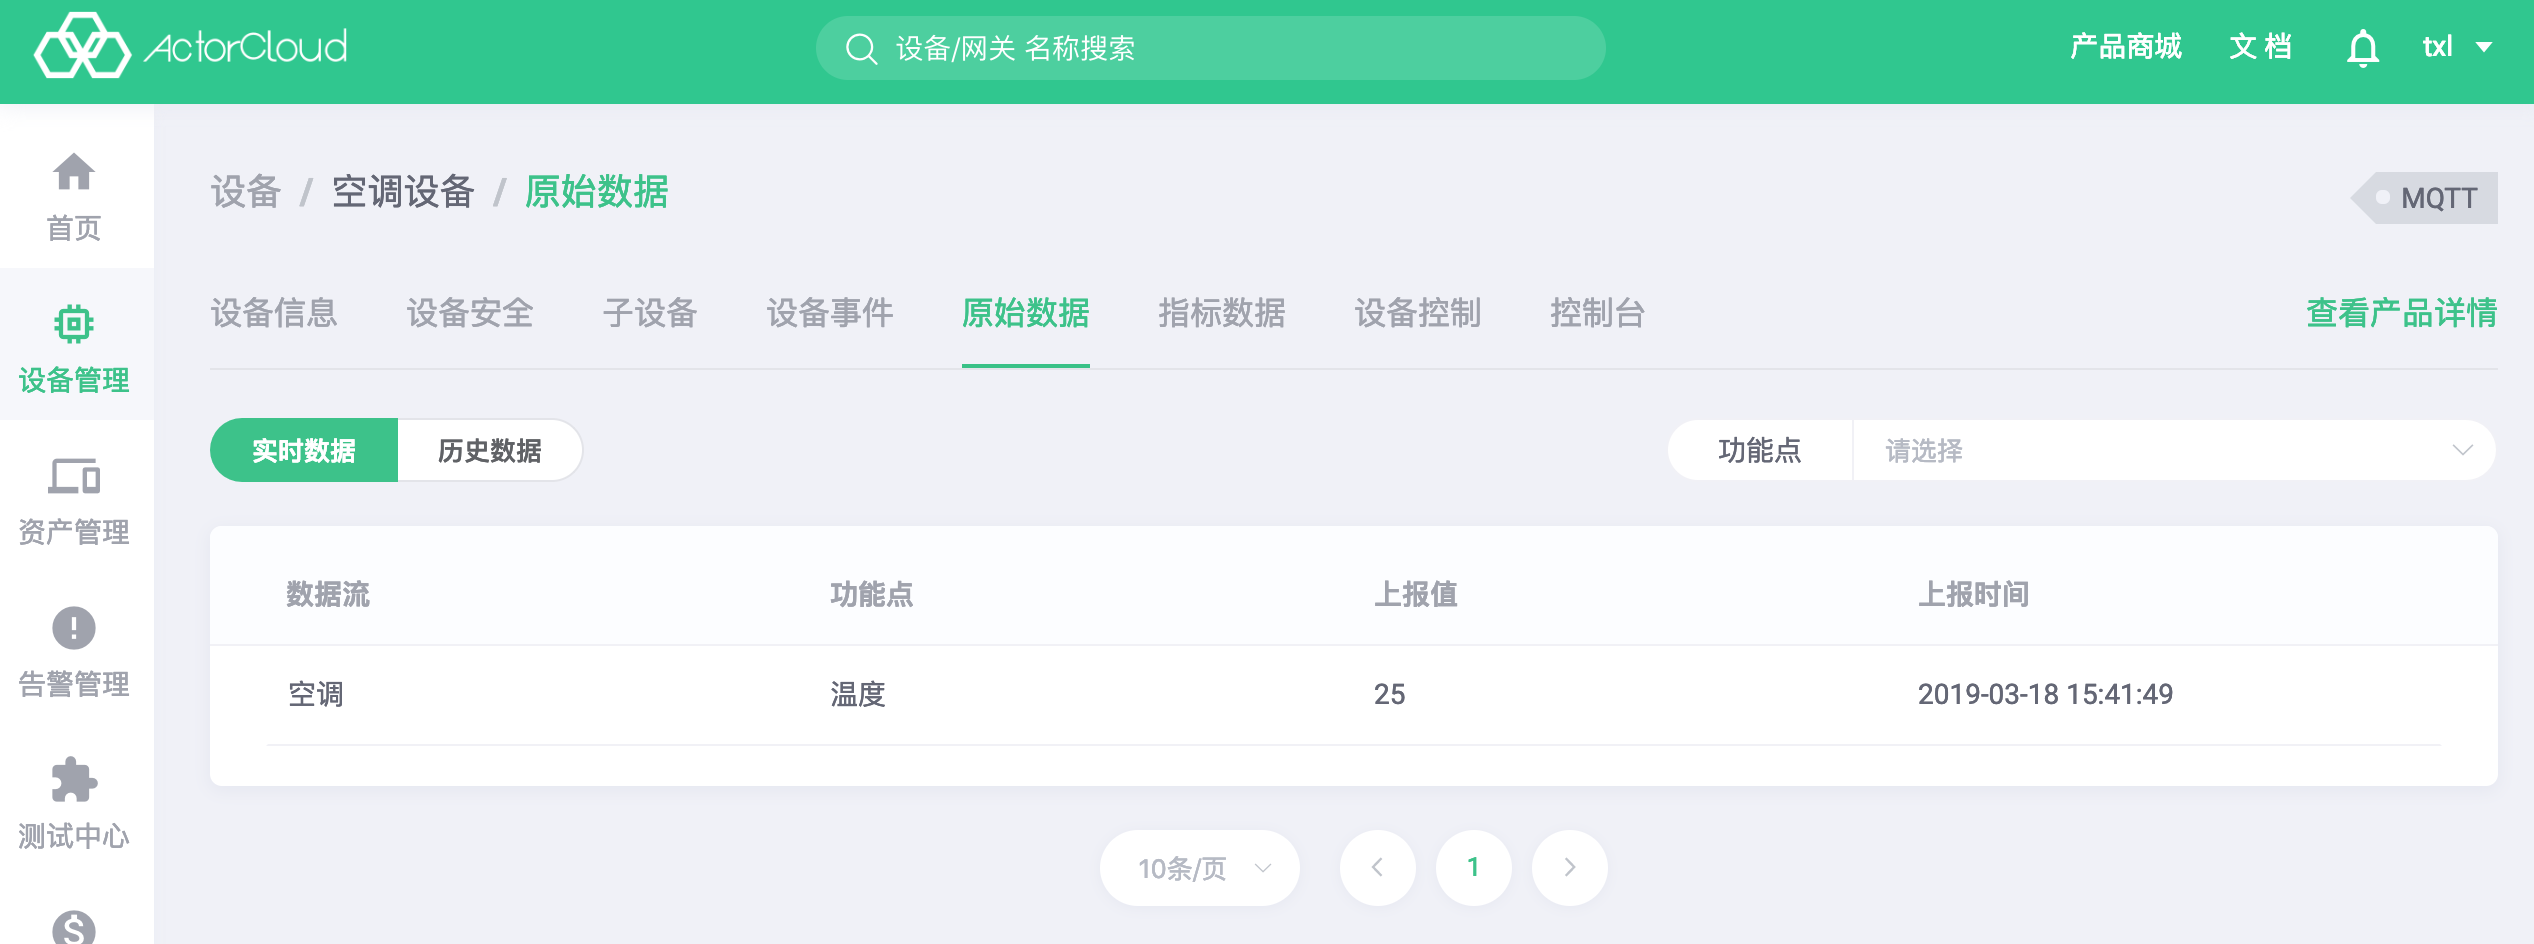
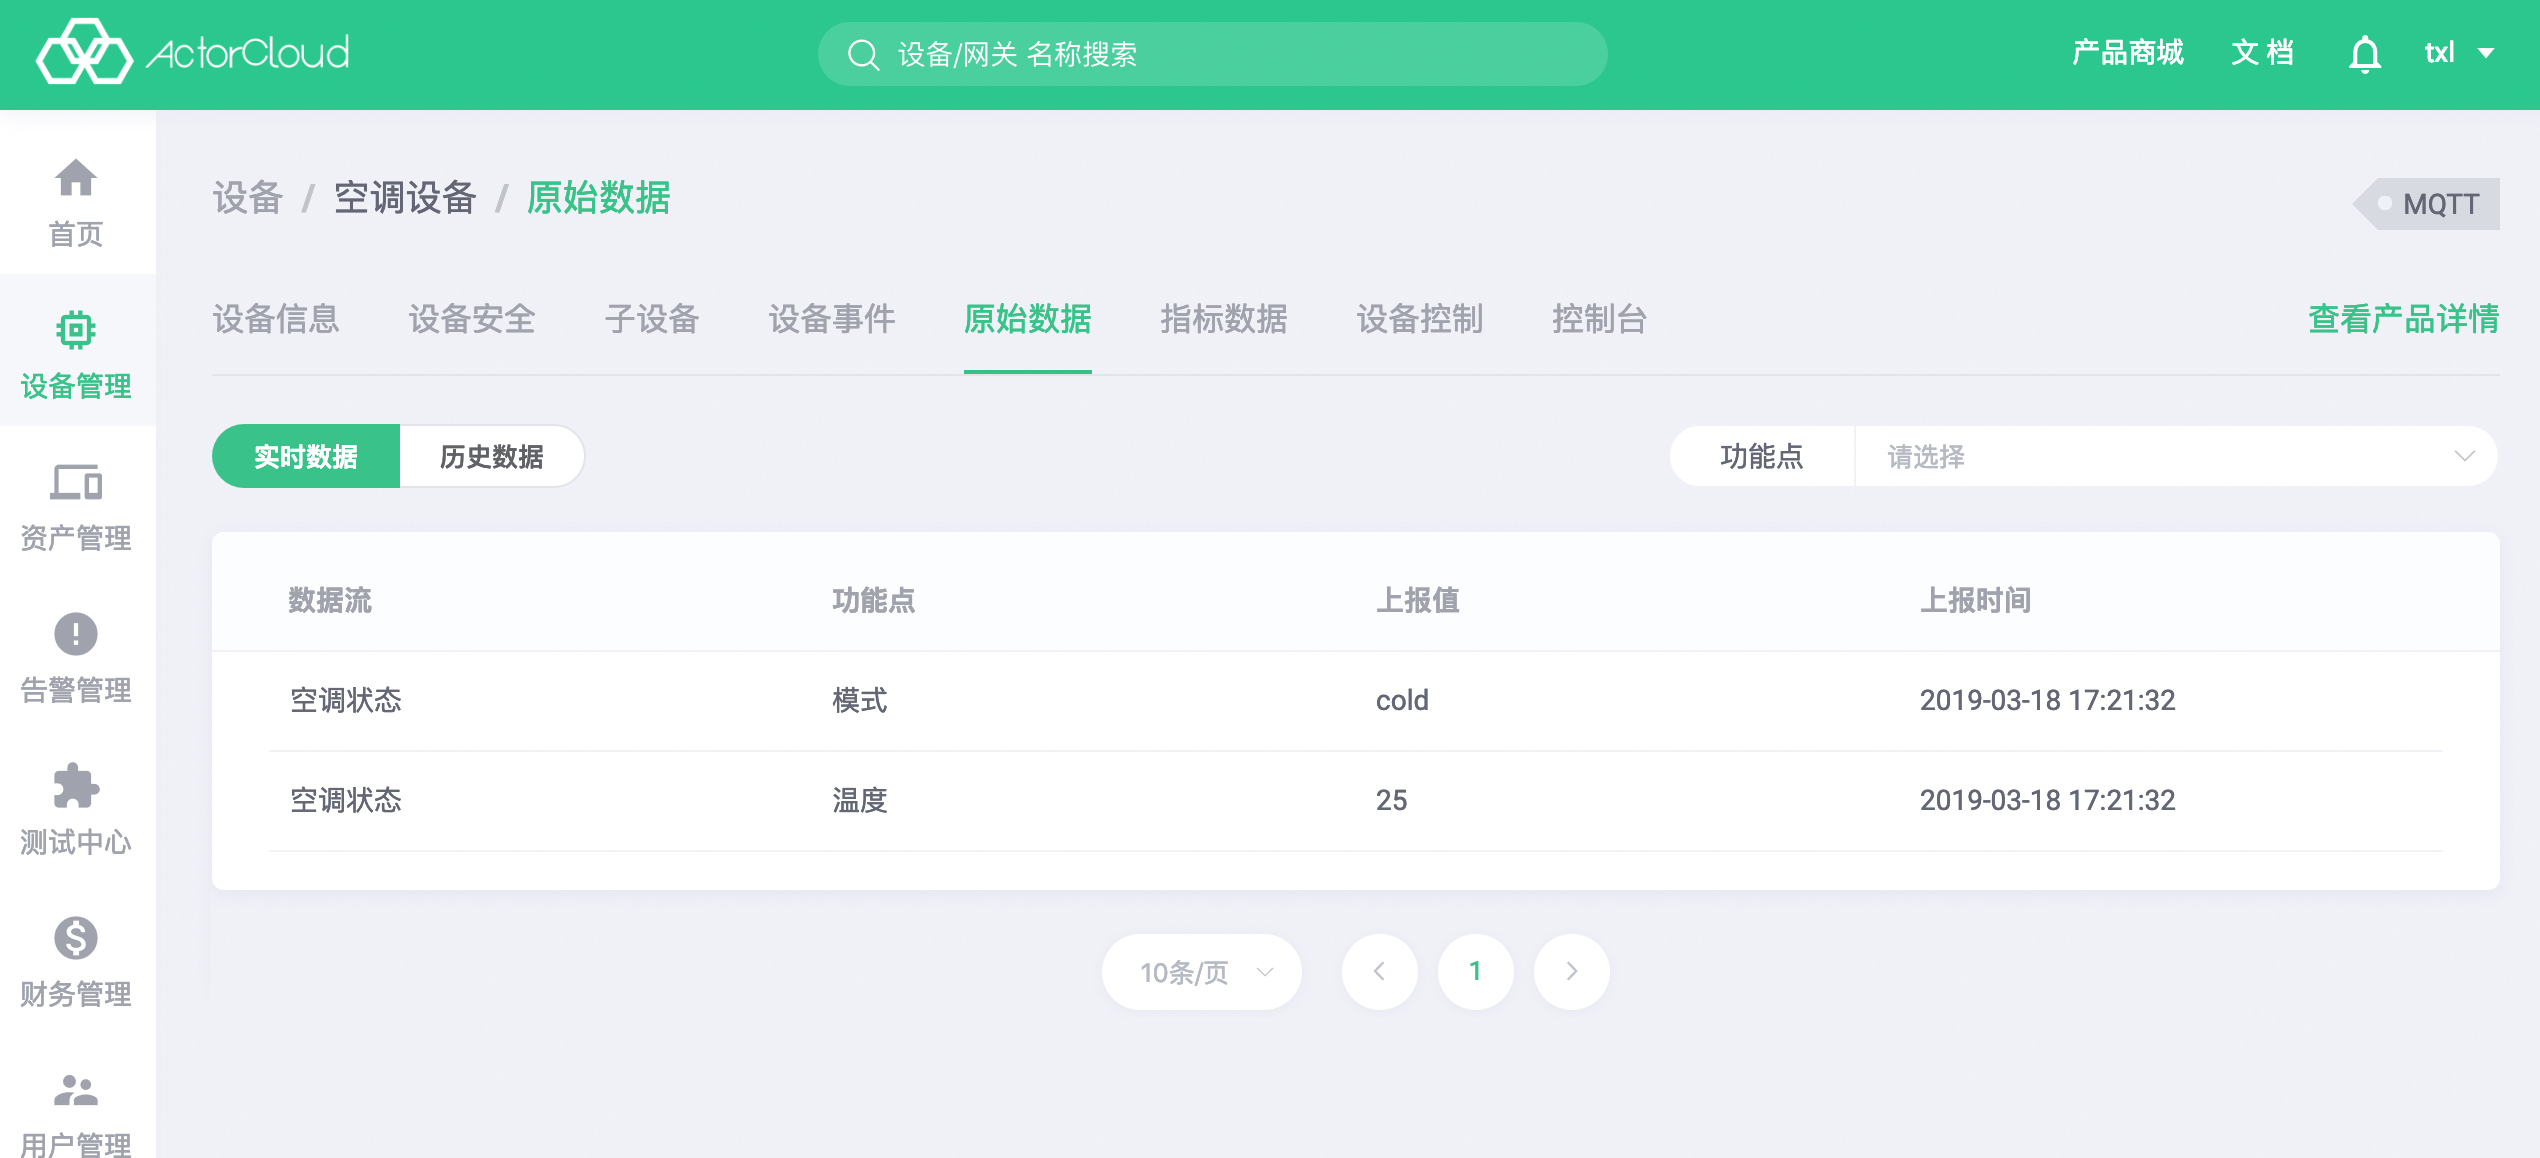
feat(notice.md): 修改文案，替换截图

diff --git a/access_guide/notice.md b/access_guide/notice.md
@@ -1,6 +1,6 @@
 # 快速接入指南
 
-设备快速接入指南将通过实例，指导开发者使用actorcloud将设备快速接入MQTT，完成数据上报基本操作。
+设备快速接入指南将通过实例，指导开发者将 MQTT 协议设备快速接入 ActorCloud 平台，并完成模拟数据上报。
 
 ## 案例概述
 
@@ -20,7 +20,7 @@
 
    选择 设备管理-> 产品管理，产品列表页找到上一步创建的产品“**空调**”，点击名称，进入产品详情页面，选择“**功能点**”选项卡，点击右上角“新建”。
 
-   创建一个功能点“**模式**”，输入功能点标识（必填，不可重复）“**mode**”，数据类型选择“**数值**”，数据传输类型选择“**可上报可下发**”，枚举值添加“**制冷**”“**制热**”两个值，点击“完成”，新建功能点成功。
+   创建一个功能点“**模式**”，输入功能点标识（必填，不可重复）“**mode**”，数据类型选择“**字符串**”，数据传输类型选择“**可上报可下发**”，点击“完成”，新建功能点成功。
 
    ![](../assets/example_datapoint_create_1.png)
 
@@ -54,7 +54,7 @@
 
    ![](../assets/example_mqtt_run.png)
 
-   在“上报数据”选项卡，输入上面创建的数据流主题“**mode_temp**”，消息字段输入JSON数据“**{"mode":1,"temperature":25}**”（制冷25度），点击“上报数据”，上报成功，右侧“已上报数据”选项卡可看到上报数据。
+   在“上报数据”选项卡，输入上面创建的数据流主题“**mode_temp**”，消息字段输入JSON数据“**{"mode":"cold","temperature":25}**”（制冷25度），点击“上报数据”，上报成功，右侧“已上报数据”选项卡可看到上报数据。
 
    ![](../assets/example_mqtt_report.png)
 
